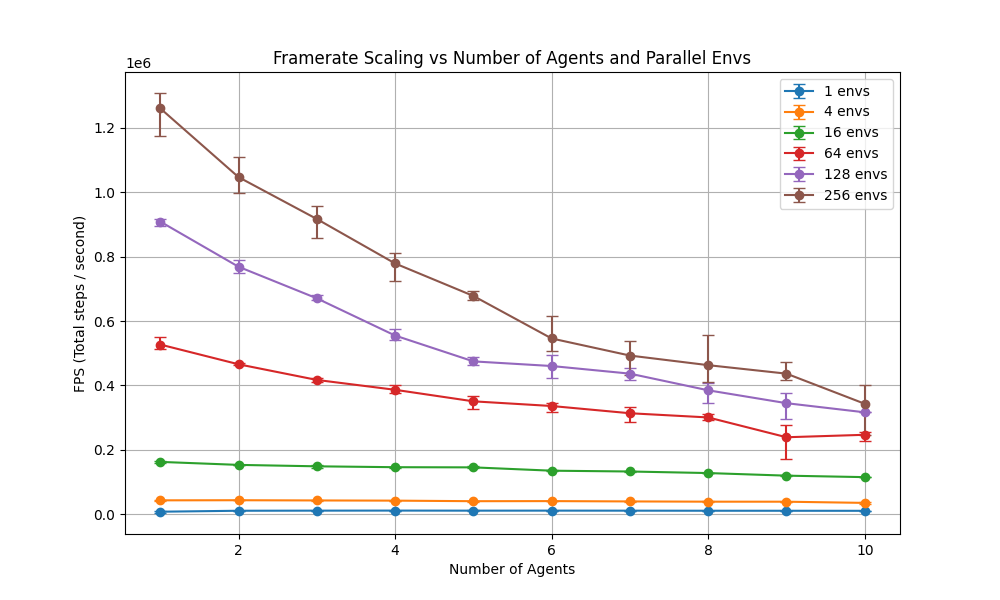
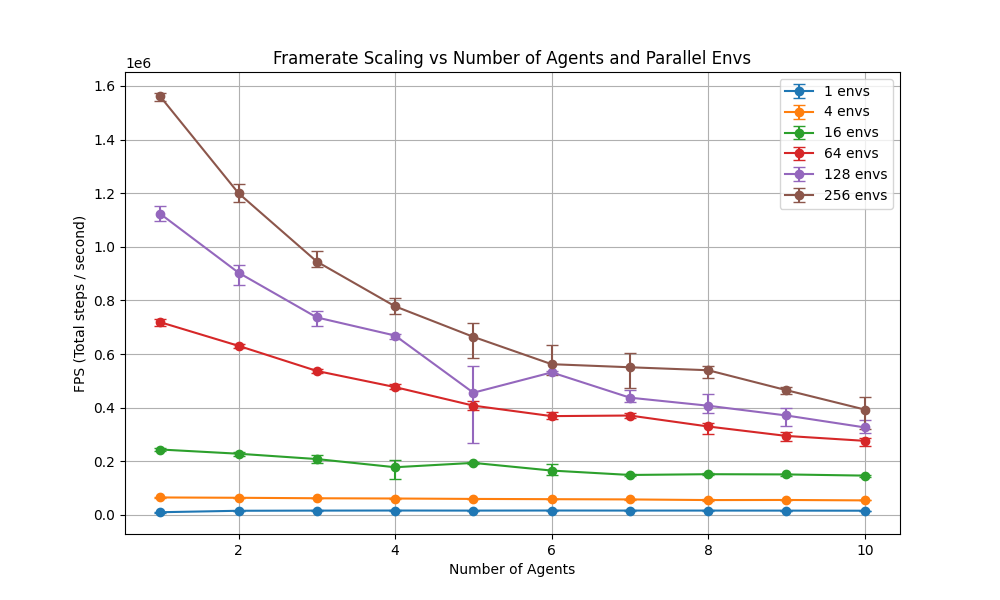
Optimize Python overhead void returns

diff --git a/src/batched_env.cpp b/src/batched_env.cpp
@@ -48,7 +48,9 @@ private:
     int width;
     int height;
     bool requires_state;
-    std::vector<float> individual_rewards;
+    float *individual_rewards = nullptr;
+    uint8_t *env_terminated = nullptr;
+    uint8_t *env_truncated = nullptr;
     // std::vector<float> global_rewards;
     std::vector<EnvStateView> env_views;
     std::vector<int> type_map;
@@ -639,8 +641,6 @@ public:
     // Internal data for resetting the environment managing randomness
     // and rendering the radio
     std::vector<std::mt19937> rngs;
-    std::vector<bool> env_terminated;
-    std::vector<bool> env_truncated;
     std::vector<int> current_frames;
     std::vector<float> init_agent_positions;
     std::vector<float> init_poi_positions;
@@ -667,6 +667,9 @@ public:
         uintptr_t obs_internal_ptr,
         uintptr_t state_spatial_ptr,
         uintptr_t state_internal_ptr,
+        uintptr_t rewards_ptr,
+        uintptr_t terminated_ptr,
+        uintptr_t truncated_ptr,
         bool requires_state = false, // Should we allocate the true state tensor?
         bool coop_rewards = true,
         float reward_new_tile_val = 0.05f,
@@ -694,16 +697,16 @@ public:
         n_pois = int(init_poi_positions.size() / 2);
 
         // 2. Setup internal simulation states
-        env_terminated.resize(num_envs, false);
-        env_truncated.resize(num_envs, false);
         current_frames.resize(num_envs, 0);
         radio_logs.resize(num_envs, "");
-        individual_rewards.resize(num_envs * n_agents, 0.0f);
 
         torch_obs_spatial_base = reinterpret_cast<float *>(obs_spatial_ptr);
         torch_obs_internal_base = reinterpret_cast<float *>(obs_internal_ptr);
         torch_state_spatial_base = reinterpret_cast<float *>(state_spatial_ptr);
         torch_state_internal_base = reinterpret_cast<float *>(state_internal_ptr);
+        individual_rewards = reinterpret_cast<float *>(rewards_ptr);
+        env_terminated = reinterpret_cast<uint8_t *>(terminated_ptr);
+        env_truncated = reinterpret_cast<uint8_t *>(truncated_ptr);
 
         std::mt19937 base_rng(seed);
         for (int i = 0; i < num_envs; ++i)
@@ -955,7 +958,7 @@ public:
     inline static std::chrono::duration<double> t_python_overhead{0};
     inline static std::chrono::duration<double> t_total{0};
 
-    py::tuple step(py::array_t<float, py::array::c_style | py::array::forcecast> move_actions_array, py::array_t<int, py::array::c_style> radio_actions_array)
+    void step(py::array_t<float, py::array::c_style | py::array::forcecast> move_actions_array, py::array_t<int, py::array::c_style> radio_actions_array)
     {
         auto t_step_start = std::chrono::high_resolution_clock::now();
         // action space is box2d[dx, dy], discrete(num radio choices)
@@ -967,7 +970,7 @@ public:
         const float *act_data = move_actions_array.data();
         const int *radio_act_data = radio_actions_array.data();
 
-        std::fill(individual_rewards.begin(), individual_rewards.end(), 0.0f);
+        std::memset(individual_rewards, 0, num_envs * n_agents * sizeof(float));
 
         auto t0 = std::chrono::high_resolution_clock::now();
 #pragma omp parallel for schedule(static)
@@ -1028,14 +1031,6 @@ public:
         }
         auto t9 = std::chrono::high_resolution_clock::now();
 
-        // std::cout << "setup for python" << std::endl;
-        auto py_rewards = py::array_t<float>({num_envs, n_agents});
-        auto py_terminated = py::array_t<bool>(num_envs);
-        auto py_truncated = py::array_t<bool>(num_envs);
-        std::copy(individual_rewards.begin(), individual_rewards.end(), py_rewards.mutable_data());
-        std::copy(env_terminated.begin(), env_terminated.end(), py_terminated.mutable_data());
-        std::copy(env_truncated.begin(), env_truncated.end(), py_truncated.mutable_data());
-        auto pytup = py::make_tuple(py_rewards, py_terminated, py_truncated);
         auto t_step_end = std::chrono::high_resolution_clock::now();
         t_total += (t_step_end - t_step_start);
         t_python_overhead += (t0 - t_step_start) + (t_step_end - t9);
@@ -1067,9 +1062,8 @@ public:
         //     t_reset_time = std::chrono::duration<double>(0);
         //     t_python_overhead = std::chrono::duration<double>(0);
         //     t_total = std::chrono::duration<double>(0);
-        // }
         
-        return pytup;
+        return;
     }
 };
 
@@ -1098,6 +1092,9 @@ PYBIND11_MODULE(cpp_engine, m)
                  uintptr_t,            // obs_internal_ptr
                  uintptr_t,            // state_spatial_ptr
                  uintptr_t,            // state_internal_ptr
+                 uintptr_t,            // rewards_ptr
+                 uintptr_t,            // terminated_ptr
+                 uintptr_t,            // truncated_ptr
                  bool,                 // requires_state
                  bool,                 // coop_rewards
                  float,                // reward_new_tile_val
@@ -1125,6 +1122,9 @@ PYBIND11_MODULE(cpp_engine, m)
              py::arg("obs_internal_ptr"),
              py::arg("state_spatial_ptr"),
              py::arg("state_internal_ptr"),
+             py::arg("rewards_ptr"),
+             py::arg("terminated_ptr"),
+             py::arg("truncated_ptr"),
              py::arg("requires_state") = false,
              py::arg("coop_rewards") = true,
              py::arg("reward_new_tile_val") = 0.05f,

diff --git a/src/hide_and_seek_engine/env_wrapper.py b/src/hide_and_seek_engine/env_wrapper.py
@@ -103,6 +103,22 @@ class SARBatchedGridEnv:
             self.state_spatial = torch.empty(0)
             self.state_internal = torch.empty(0)
 
+        self.rewards = torch.zeros(
+            (self.num_envs, self.config.n_agents),
+            dtype=torch.float32,
+            pin_memory=True,
+        ).contiguous()
+        self.terminated = torch.zeros(
+            (self.num_envs,),
+            dtype=torch.bool,
+            pin_memory=True,
+        ).contiguous()
+        self.truncated = torch.zeros(
+            (self.num_envs,),
+            dtype=torch.bool,
+            pin_memory=True,
+        ).contiguous()
+
         # 3. Instantiate C++ Engine passing data_ptr()
         if cpp_engine is not None:
             self.env = cpp_engine.BatchedEnvironment(
@@ -125,6 +141,9 @@ class SARBatchedGridEnv:
                 self.obs_internal.data_ptr() if self.mode_val != 2 else 0,
                 self.state_spatial.data_ptr() if self.requires_state else 0,
                 self.state_internal.data_ptr() if self.requires_state else 0,
+                self.rewards.data_ptr(),
+                self.terminated.data_ptr(),
+                self.truncated.data_ptr(),
                 self.requires_state,
                 True,  # Cooperative rewards
                 0.05,  # Reward: new tile
@@ -169,13 +188,13 @@ class SARBatchedGridEnv:
 
         t1 = time.perf_counter()
         # Advance the environment. The C++ function directly writes to our spatial/internal memory!
-        rewards_np, terminated_np, truncated_np = self.env.step(move_act, radio_act)
+        self.env.step(move_act, radio_act)
 
         t2 = time.perf_counter()
-        # Convert engine returns to tensors
-        rewards = torch.from_numpy(rewards_np)
-        terminated = torch.from_numpy(terminated_np)
-        truncated = torch.from_numpy(truncated_np)
+        # Returns directly reference the pre-allocated tensors
+        rewards = self.rewards
+        terminated = self.terminated
+        truncated = self.truncated
 
         if self.device != "cpu":
             rewards = rewards.to(self.device)
